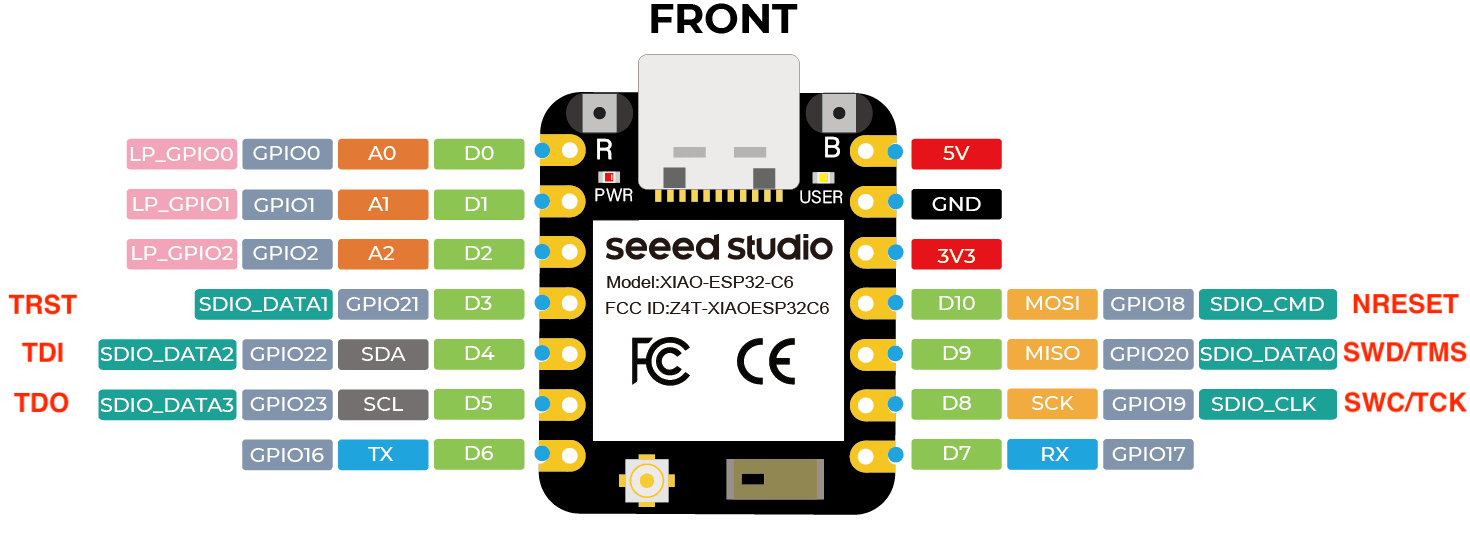
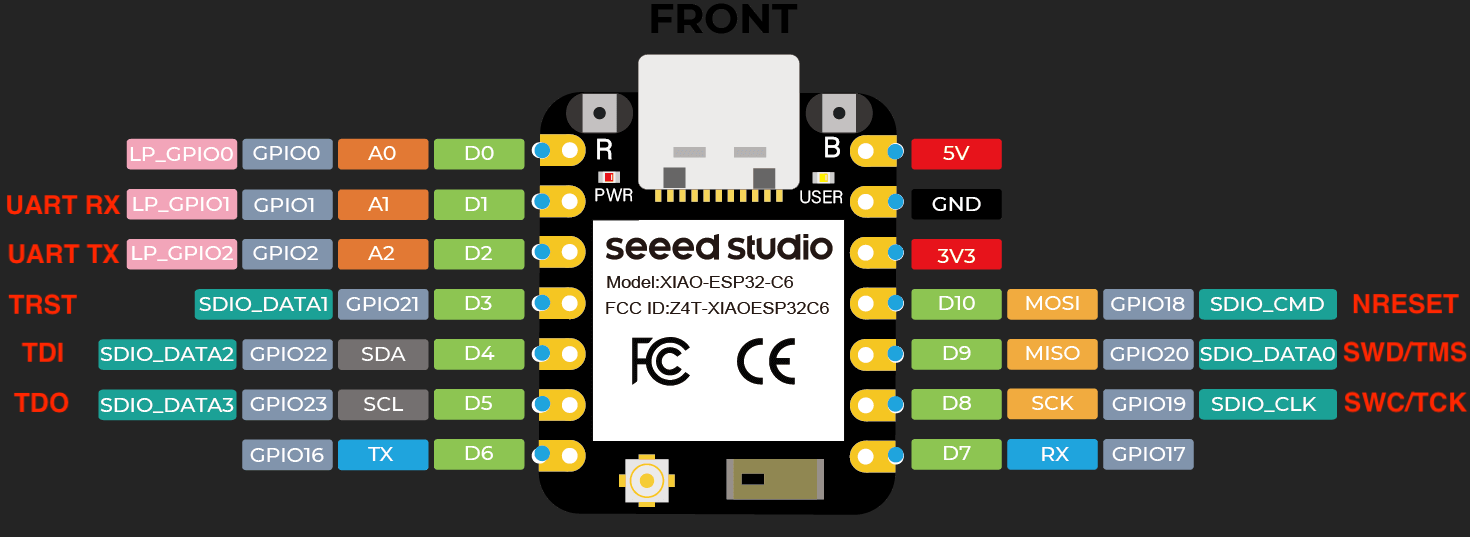
Update README

diff --git a/README.md b/README.md
@@ -24,6 +24,8 @@ board.
 - In JTAG mode, an optional GPIO pin can be used to drive the TRST signal, but
   this is typically not required.
 - A separate GPIO may be used to control an activity LED.
+- UART to TCP/IP bridge can be enabled to provide access to the target board's
+  serial console remotely, using an ESP32 UART.
 - Typical performance: flashing a 512 KB firmware image to the STM32F401RE
   completes in about 13.4 seconds, including erase, program, and verify (with 4
   to 8 seconds of that time used for flash erasure). The Blue Pill takes about
@@ -43,7 +45,7 @@ commit 1fd47bed772ea40923472c90dfe11516e76033ee (HEAD -> main, tag: v2.1.2, orig
 
 The software has some limitations:
 
-- CMSIS-DAP UART and SWO are currently unsupported.
+- SWO is currently unsupported.
 - Maximum clock rate is about 1000 KHz (ESP32C6 configured for 160 MHz / 80 MHz).
 - The WiFi credentials are hardcoded. The software must be rebuilt if you want
   to change them.
@@ -88,6 +90,14 @@ In menuconfig, goto to the "CMSIS-DAP configuration" page.
   not needed.
 
   <img src="img/menuconfig3.png" width="75%" />
+
+* If you want to use the UART to TCP/IP bridge, it can be configured on the
+  the "UART to TCP/IP bridge" subpage. (Currently, the baud rate and other
+  settings cannot be changed at runtime). A script ```host/uart_bridge.sh```
+  is provided that uses ```socat``` to present the remote UART as a pseudo-tty
+  that can be opened using any serial terminal program on the host.
+
+  <img src="img/menuconfig4.png" width="75%" />
 
 
 # Building and Running OpenOCD
